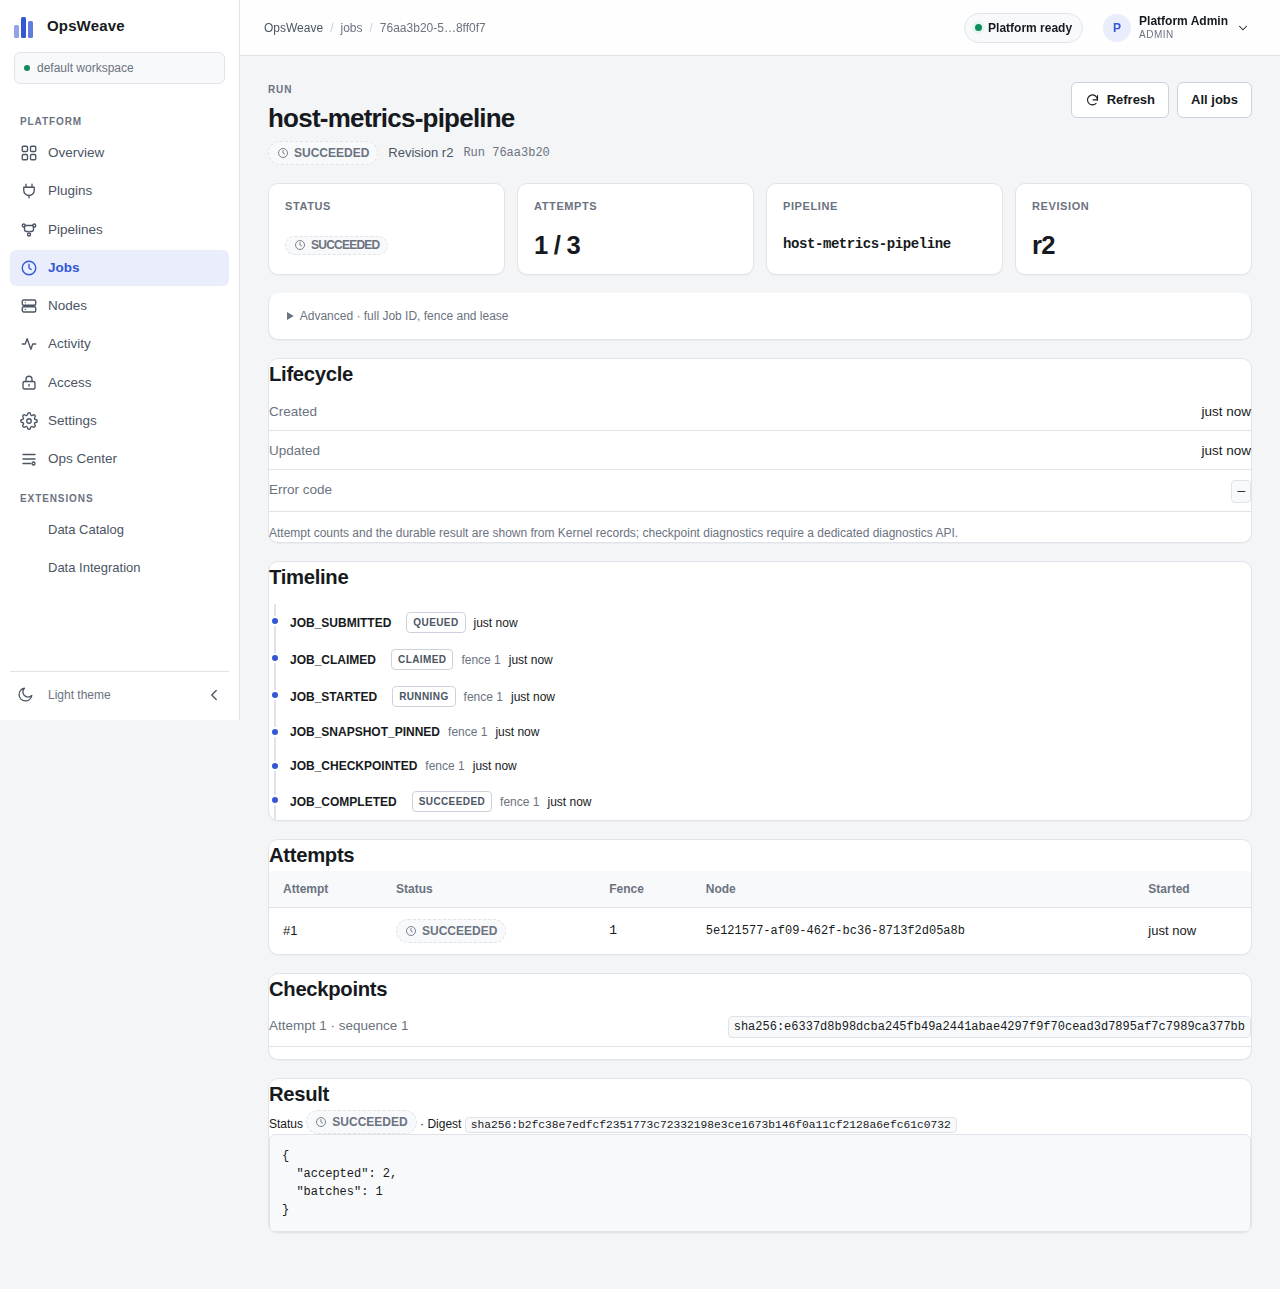
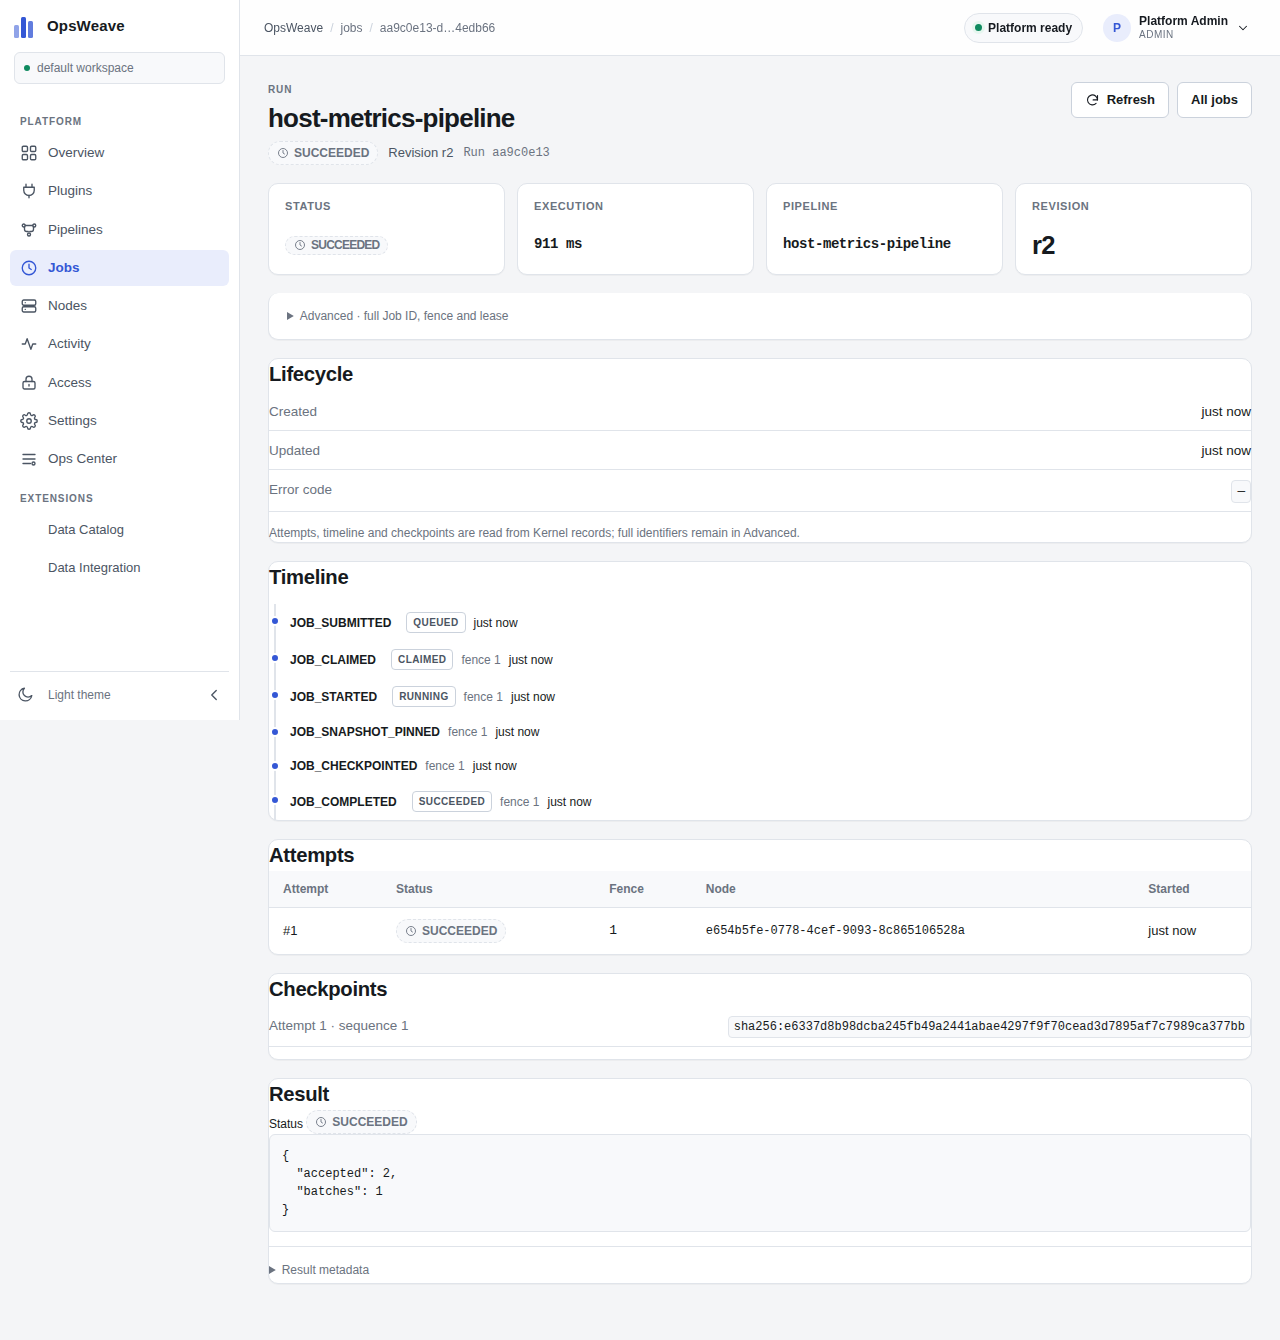
docs(ui): record closure fixes and capability revoke evidence

diff --git a/docs/acceptance/004-ui-redesign.md b/docs/acceptance/004-ui-redesign.md
@@ -112,3 +112,50 @@ None.
 - Preview console is intentionally bounded (no Source IO, no hard cancel).
 - The global icon rail auto-collapse uses `:has()` and modern Chromium; supported
   by the supported browser matrix.
+
+## Quality Closure (follow-up)
+
+### Capability revoke root cause
+
+`current_token()` waited up to 60s for `data.catalog.v1` **after** the Grant had
+been deleted. Revocation legitimately clears/rotates the Worker token file, so a
+revoked state could never satisfy that wait. The test now:
+
+1. saves the pre-revoke token and its masked SHA-256;
+2. deletes the Grant;
+3. records token-file state without requiring the old token to remain;
+4. invokes with the **saved token** and asserts bounded 403 + `CAPABILITY_FORBIDDEN`;
+5. recreates the Grant and polls observable authorization until 200;
+6. records both hashes and timings.
+
+CI evidence:
+
+```text
+revoke evidence: grant_delete_at=1793003312223
+  token_before=sha256:b13668908db27234
+  file_after=sha256:2777d88708620f9f response=403
+restore evidence: token_after=sha256:b13668908db27234 authorized=200
+PASS Grant revoke is immediate and restore re-issues an authorized token
+```
+
+### Additional closure
+
+- Sidebar workspace name wrapped in a span and hidden cleanly in the 64px rail;
+  full name remains available via tooltip.
+- Studio topological layout uses IR edges, not node array order. Deterministic
+  Kahn order with cycle/disconnected fallback; unit tests cover shuffled nodes,
+  shuffled edges and cycle.
+- Auto Layout calls `fitView` through a nonce without touching IR.
+- Preview screenshot is a clean element capture; sticky topbar is hidden only for
+  the artifact, Skip Link and keyboard behavior are unchanged.
+- Structured Draft Conflict Diff shows node-level and field-level local/server
+  values (e.g. `timeoutSeconds: 19` vs `18`) and explicit resolution actions.
+- Job Duration now uses real `JOB_STARTED` event + durable result `completed_at`;
+  queued uses `Queued`, running uses elapsed with “running”, missing timestamps
+  show `—`. Queue wait / total elapsed remain Advanced metadata.
+- Job History keeps Pipeline and Created columns on one line.
+- Mobile Studio adds Nodes/Canvas switch and node list; Inspector remains below.
+- Node deletion asks for confirmation (Escape/dialog focus already handled by the
+  shared Modal component).
+- Job Detail: Execution metric; Result digest moved to collapsed metadata; stale
+  “requires dedicated diagnostics API” copy removed.
